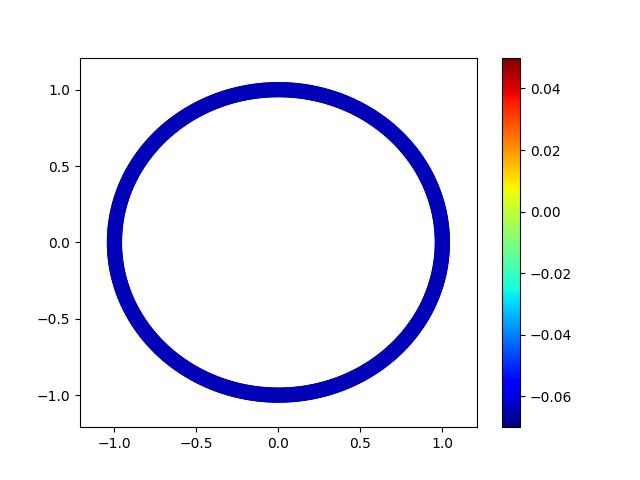
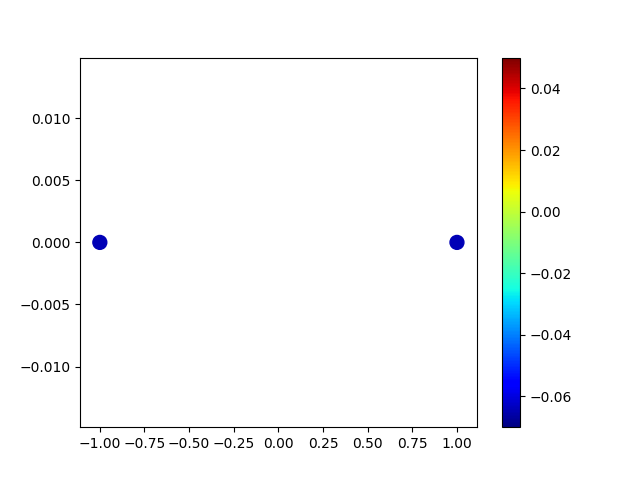
2.3.1
-Constant Modifications
-Changed get_Rand from uniform to normal distribution

diff --git a/update_functions.py b/update_functions.py
@@ -3,6 +3,7 @@ import const
 
 def update_state_LIF(G, t):
     """ Master Update Calculation for LIF model """
+    t_delayed = fn.delay(t)
 
     # Initializations:
     M = [None] * len(G.node) # Will have j of these.
@@ -18,7 +19,7 @@ def update_state_LIF(G, t):
         for k in G.neighbors(j):
             if(k != j): # Redundant unless MultiGraph
                 neighbor_voltages = G.node[k]['voltage'] # copies list of all voltages for specific neighbor
-                summation = summation + G[j][k]['weight'] * fn.delta(neighbor_voltages,t)
+                summation = summation + G[j][k]['weight'] * fn.sigma(neighbor_voltages[t_delayed])#fn.delta(neighbor_voltages,t)
         func_v[j] = const._a_m * (-1 * voltage_now + const.I_ext + const.g_syn * summation)
 
     # Dynamic Protection:
@@ -34,6 +35,10 @@ def update_state_LIF(G, t):
     for j in range(len(G.node)):
         G.node[j]['voltage'].append(voltage_now + const.dt_list[-1] * func_v[j])        # Use [-1] or [t]. Equivalent, as both are most recent element
 
+
+    if(G.node[j]['voltage'][t] > 0.05): ##### TESTING FORCED PERIODICITY
+        G.node[j]['voltage'][t] = const.voltage_init
+
     time_taken = sum(const.dt_list) # sums up all dt's
     return G, time_taken
 
@@ -47,6 +52,7 @@ def update_state_LIF(G, t):
 
 def update_state_STR(G,t):
     """ Master Update Calculation for STR model """
+    t_delayed = fn.delay(t)
 
     # Initializations:
     M = [None] * len(G.node) # Will have j of these.
@@ -63,6 +69,10 @@ def update_state_STR(G,t):
         conductance_I_now = G.node[j]['conductance_I'][t]
         conductance_A_now = G.node[j]['conductance_A'][t]
 
+        #if(voltage_now > 0.04): ##### TESTING FORCED PERIODICITY
+        #    G.node[j]['voltage'][t] = const.voltage_init
+        #    voltage_now = G.node[j]['voltage'][t]
+
     # Preliminary Voltage calculations:
         excitatory = (const.voltage_E - voltage_now) * conductance_E_now
         inhibitory = (const.voltage_I - voltage_now) * conductance_I_now
@@ -76,16 +86,15 @@ def update_state_STR(G,t):
         summation = 0
         for k in G.neighbors(j):
             if(k != j): # Redundant unless MultiGraph
-                t_delayed = fn.delay(t)
                 neighbor_voltage = G.node[k]['voltage'][t_delayed]
                 summation = summation + G[j][k]['weight'] * fn.sigma (neighbor_voltage)
         func_I[j] = (-1 * const._a_I * conductance_I_now + const._a_I * const.conductance_K_max * summation)
 
     # Randomness Generator
-        func_v[j] = func_v[j] #+ get_Rand()
-        func_E[j] = func_E[j] #+ get_Rand()
-        func_A[j] = func_A[j] #+ get_Rand()
-        func_I[j] = func_I[j] #+ get_Rand()
+        func_v[j] = func_v[j] #+ fn.get_Rand()
+        func_E[j] = func_E[j] #+ fn.get_Rand()
+        func_A[j] = func_A[j] #+ fn.get_Rand()
+        func_I[j] = func_I[j] #+ fn.get_Rand()
 
     # Dynamic Protection:
         M[j] = max(abs(func_v[j]), abs(func_A[j]), abs(func_E[j]), abs(func_I[j])) # Calculating max func value for neuron j
@@ -100,6 +109,8 @@ def update_state_STR(G,t):
         G.node[j]['conductance_E'].append(conductance_E_now + const.dt_list[-1] * func_E[j])
         G.node[j]['conductance_I'].append(conductance_I_now + const.dt_list[-1] * func_I[j])
         G.node[j]['conductance_A'].append(conductance_A_now + const.dt_list[-1] * func_A[j])
+
+
 
 
     time_taken = sum(const.dt_list) # sums up all dt's

diff --git a/run.py b/run.py
@@ -1,9 +1,11 @@
 import os
 import graph_build as gbuild
+import networkx as nx
 from weight_generator import weight_generator
 import update_functions
 import const
 from dynamic_voltage_plot import voltage_plot
+from network_plot import network_plot
 
 
 i=0
@@ -11,9 +13,9 @@ if (i == 0):
     os.system('cls' if os.name == 'nt' else 'clear')
     os.system('cls' if os.name == 'nt' else 'clear')
     print(' =========================================== ')
-    print('|-|   NeuroRC: Version 2.3.0              |-|')
+    print('|-|   NeuroRC: Version 2.3.1              |-|')
     print('|-|   Author: J Weirathmueller            |-|')
-    print('|-|   Last Updated: February 17th, 2018   |-|')
+    print('|-|   Last Updated: February 26th, 2018   |-|')
     print(' =========================================== ')
     i = i+1
 
@@ -30,6 +32,31 @@ while True:
         model = response
         break
 
+# while True:
+#     response = input('How would you like to timekeep? (steps/clock)\n')
+#     if all ([response != 'steps', response != 'clock']):
+#         print('Invalid input; Please try again.\n')
+#     elif (response == 'steps'):
+#         timekeeping = response
+#         while True:
+#             response = input('How many timesteps would you like to take?\n')
+#             if (type(response) == str):
+#                 print('Invalid input; Please try again.\n')
+#             else:
+#                 const.tMax = response
+#                 break
+#             break
+#     elif (response == 'clock'):
+#         timekeeping = response
+#         while True:
+#             response = input('How long would you like to simulate for? (1e-3 recommended)\n')
+#             if (type(response) == str):
+#                 print('Invalid input; Please try again.\n')
+#             else:
+#                 const.total_time = response
+#                 break
+#             break
+
 G = gbuild.set_graph_attributes(G,model) # sets node attributes
 G = weight_generator(G) # sets edge weights randomly
 #timesteps = const.timesteps #len(G.node[1]['voltage'])
@@ -44,8 +71,10 @@ t = 0 # timestep
 tMax = const.tMax # Max timesteps
 #while True:
 if (model == 'STR'):
-    while True:
-        if (time_taken < const.total_time):
+    #while True:
+    while(t<tMax):
+        if True:
+        #if (time_taken < const.total_time):
             G, time_taken = update_functions.update_state_STR(G,t)
             t = t + 1
             print('t is  = ',t)
@@ -53,21 +82,22 @@ if (model == 'STR'):
         else:
             break
 elif (model == 'LIF'):
-    while True:
+    #while True:
+    while(t<tMax):
         #print('\r', t,end='')
-        if (time_taken < const.total_time):
+        #if (time_taken < const.total_time):
+        if True:
             G, time_taken = update_functions.update_state_LIF(G,t)
             t = t + 1
             print('t is  = ',t)
-            #network_plot(G,t)
         else:
             break
 
 
 print('Time calculated over = ', time_taken)
-print('Time steps taken     = ', len(G.nodes[1]['voltage']))
+print('Time steps taken     = ', len(G.nodes[1]['voltage']),'\n')
 
-
+print(nx.info(G),'\n')
 
 voltage_plot(G)
 

diff --git a/const.py b/const.py
@@ -22,26 +22,26 @@ conductance_K_max = 25e-9    #Siemens - range (0<x<50) change later? Saturation 
 conductance_A_max = 25e-9    #Siemens - Not sure what this should be. Saturation value for AHP channel
 
 capacitance       = 0.5e-9   #F - capacitance of cell membrane
-_k                = 8e1      #(V)^-1 - slope of the sigmoid (smaller is more gradual)
+_k                = 8e-1      #(V)^-1 - slope of the sigmoid (smaller is more gradual)
 voltage_0         = -45e-3   #(V) -
 voltage_thresh    = -50e-3   #(V) - firing threshold
-_beta             = 8e1      #(v)^-1 - tells about slope of sigma (oid?). experiment with value. start out similar to k.
+_beta             = 8e-1      #(v)^-1 - tells about slope of sigma (oid?). experiment with value. start out similar to k.
 w_A               = 1e-2     # scale factor for AHP
 I                 = 1e-3     # striatal afferents determined by cortical afferents (should make dynamic later)
 epsilon           = 1e-3     # Constraint on dynamics
 
-tMax              = 500    # (sec)
+tMax              = 10000    # (steps)
 
 
 # Graph Building
 
-total_time        = 1e-2
+total_time        = 1e-3
 dt_list           = []
 lowrand           = -1e-3
 highrand          = 1e-3
 
-N                 = 500  # number of nodes
-K                 = 7  # average degree
+N                 = 2#500  # number of nodes
+K                 = 1#7  # average degree
 P                 = 1e-5 # 2e-3
 
 # Initial Values
@@ -52,16 +52,16 @@ conductance_I_init      = 10e-9 #Siemens
 
 ### Experimental values for constants used in the LIF model
 
-g_syn                   = 0.2 # Firing amplitude
-I_ext                   = 0.85
+g_syn                   = 2e-3 # Firing amplitude
+I_ext                   = 30e-3#0.85
 
 # Inverse time constants
 
-_a_m                    = 1e3     #(sec)^-1
+_a_m                    = 1e3     #(sec)^-1 # inverse of tau_m
 
 # Time constants
 
-_tau_D                  = 1e-1 # (sec) Delay time
+_tau_D                  = 1e-4 # (sec) Delay time
 
 
 

diff --git a/dynamic_voltage_plot.py b/dynamic_voltage_plot.py
@@ -17,25 +17,32 @@ def voltage_plot(G):
 
     #x = const.dt_list#np.linspace(0, const.dt * timesteps , timesteps)
     y1 = G.node[nnumber1]['voltage']
-    y2 = G.node[nnumber2]['voltage']
+    #y2 = G.node[nnumber2]['voltage']
+    y_A = G.node[nnumber1]['conductance_A']
+    y_E = G.node[nnumber1]['conductance_E']
+    y_I = G.node[nnumber1]['conductance_I']
 
     xmin = min(x)
     xmax = max(x)
     xwidth = xmax - xmin
 
-    ymin = min([min(y1),min(y2)])
-    ymax = max([max(y1),max(y2)])
+    ymin = min([min(y1),min(y_A),min(y_E),min(y_I)])
+    ymax = max([max(y1),max(y_A),max(y_E),max(y_I)])
     ywidth = ymax - ymin
 
-    plt.plot(x,y1,linestyle='-.',marker = '.')
-    plt.plot(x,y2,linestyle='--',marker = ',')
+    #plt.plot(x,y1)
+    plt.plot(x,y_A)
+    plt.plot(x,y_E)
+    plt.plot(x,y_I)
+
     #plt.text(xmin,ymin,'Time Increment (dt) = %.2e' % const.dt,fontsize=14)
     plt.title('epsilon = %.2e' % (const.epsilon),fontsize=14)
 
     plt.xlabel('Time (s)',fontsize=14)
     plt.ylabel('Voltage (V)',fontsize=14)
 
-    plt.legend(['Neuron %d'%(nnumber1),'Neuron %d'%(nnumber2)])
+    plt.legend(['voltage','A','E','I'])
+    #plt.legend(['Neuron %d'%(nnumber1),'Neuron %d'%(nnumber2)])
     plt.tight_layout()
 
     plt.savefig('figures/%dN%dK%.2eP.png'%(const.N,const.K,const.P))

diff --git a/math_functions.py b/math_functions.py
@@ -1,11 +1,12 @@
 import math
+import numpy as np
 import const
 import networkx as nx
 import random
 
 
 def get_Rand():
-    state = get_Sign() * round(random.uniform(const.lowrand,const.highrand), int(random.uniform(10,15)))
+    state = get_Sign() * round(np.random.normal(0,5e-5), int(random.uniform(10,15)))
     return state
 
 def get_Sign():
@@ -36,14 +37,19 @@ def delta(neighbor_voltages,t):
     return summation
 
 def delay(t):
+    """ Calculates how many timesteps ago _tau_D is  """
     dt_sum = 0
     i = 0
-    while( dt_sum < const._tau_D ): # Calculates how many timesteps back _tau_D is.
+    while( dt_sum < const._tau_D ):
         if(len(const.dt_list) > i): # Does not proceed if list of dt's is not long enough.
             dt_sum += const.dt_list[-i-1]
             i += 1
         else:
             break
+    print('dt_sum is',dt_sum)
+    print('_tau_D is',const._tau_D)
+    print('steps back is',i)
+    print('time_delayed is ', t-i,'\n')
     return t-i
 
 

diff --git a/network_plot.py b/network_plot.py
@@ -14,6 +14,7 @@ def network_plot(G,t):
     plt.colorbar(nc) # node color
 
     plt.savefig('Animation Files/%d.png' %(t))
+    print('title of png is ',t,'\n')
     plt.clf()
 
 
@@ -23,5 +24,5 @@ def network_plot(G,t):
 #
 #Find better layout for visualization
 #
-#
+#Do a firing map
 #
